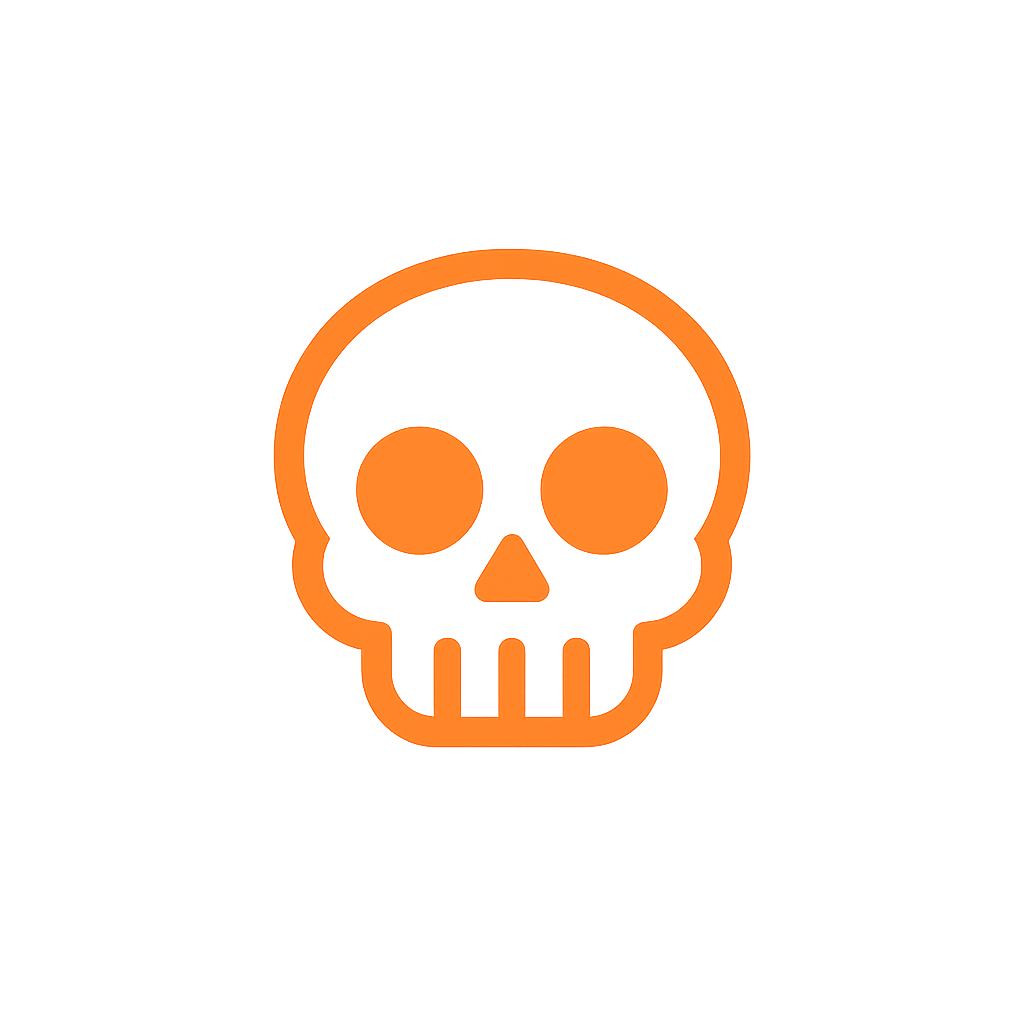
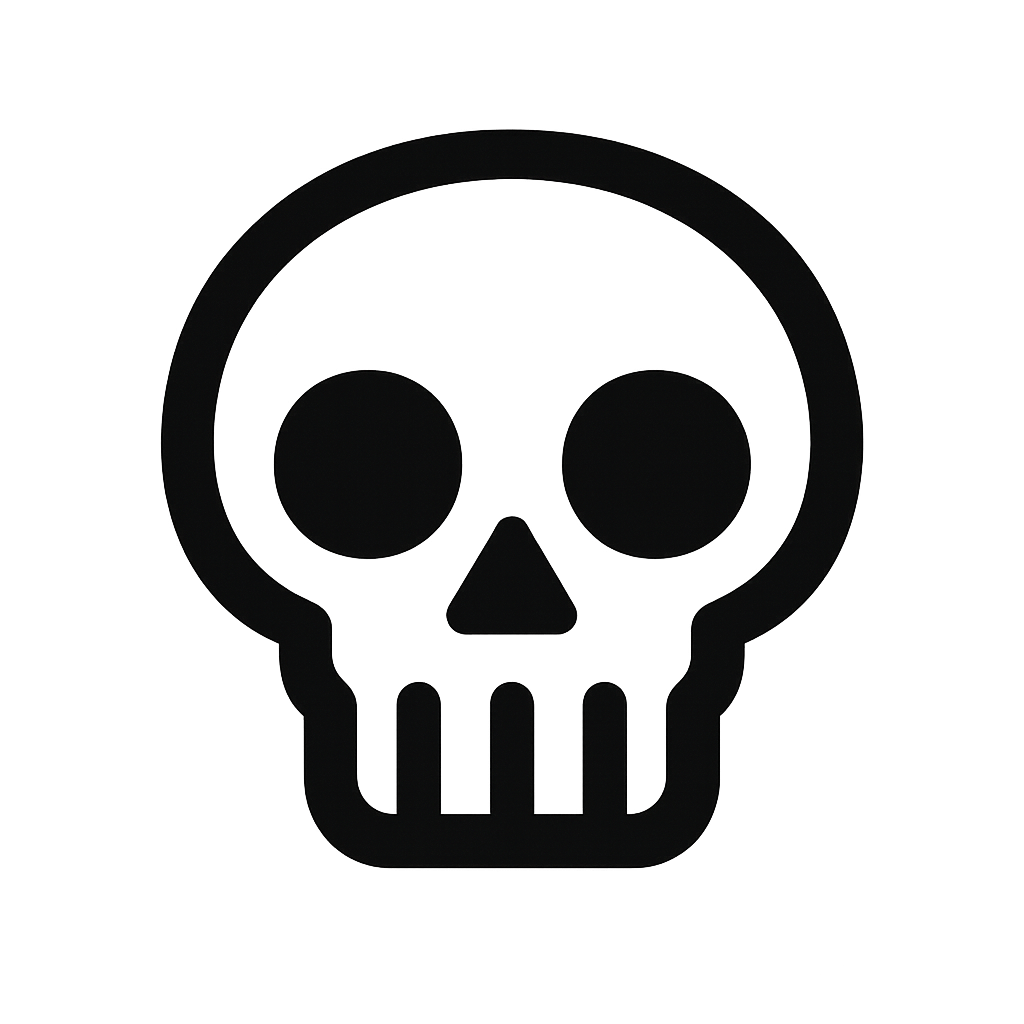
WIP BurgerMenu

Changed region(s): [[0.1562, 0.125, 0.8438, 0.875]]

diff --git a/app/Components/BurgerMenu.tsx b/app/Components/BurgerMenu.tsx
@@ -2,37 +2,46 @@ import { useState } from "react";
 import { View, Image, StyleSheet, Modal, Pressable, Text } from "react-native";
 import Colors from "../Constants/Colors";
 import Row from "./Row";
+import Animated, { FadeIn, FadeOut } from "react-native-reanimated";
+import { Link } from "expo-router";
 
 export default function BurgerMenu()
 {
     const [isVisible, setIsVisible] = useState(false);
     return (
-        <>
         <View style={styles.Container}>
             <Pressable onPress={() => setIsVisible((prev) => !prev)}>
                 {!isVisible && <Image source={require("@/assets/images/burger-bar.png")} style={styles.BurgerMenuIcon}></Image>}
                 {isVisible && <Image source={require("@/assets/images/CloseIcon.png")} style={styles.CloseIcon}></Image>}
-                <View style={styles.ModalContainer}>
-                    <Row style={styles.MenuRow} gap={5}>
+                {isVisible &&
+                <Animated.View style={styles.ModalContainer} entering={FadeIn.duration(200)} exiting={FadeOut.duration(200)}>
+                    <Pressable>
+                      <Row style={styles.MenuRow} gap={5}>
                         <Image source={require("@/assets/images/Account.png")} style={styles.MenuIcon}></Image>
                         <Text style={styles.MenuText}>Account</Text>
-                    </Row>
-                    <Row style={styles.MenuRow} gap={5}>
-                        <Image source={require("@/assets/images/padlock.png")} style={styles.MenuIcon}></Image>
-                        <Text style={styles.MenuText}>Brutal Mode</Text>
-                    </Row>
-                </View>
+                      </Row>
+                    </Pressable>
+                    
+                    <Link href={{pathname: "/Screens/BrutalModeScreen"}} asChild>
+                      <Pressable>
+                        <Row style={styles.MenuRow} gap={5}>
+                            <Image source={require("@/assets/images/Skull.png")} style={styles.MenuIcon}></Image>
+                            <Text style={styles.MenuText}>Brutal Mode</Text>
+                        </Row>
+                      </Pressable>
+                    </Link>
+                </Animated.View>
+                }
             </Pressable>
             
         </View>
-        {/* <Modal transparent visible={isVisible} onRequestClose={() => setIsVisible(false)} animationType="fade">
-                <Pressable onPress={() => setIsVisible(false)}>
-                    <View style={styles.CloseMenuView}>
+        // {/* <Modal transparent visible={isVisible} onRequestClose={() => setIsVisible(false)} animationType="fade">
+        //         <Pressable onPress={() => setIsVisible(false)}>
+        //             <View style={styles.CloseMenuView}>
                         
-                    </View>
-                </Pressable>
-            </Modal> */}
-        </>
+        //             </View>
+        //         </Pressable>
+        //     </Modal> */}
     )
 }
 
